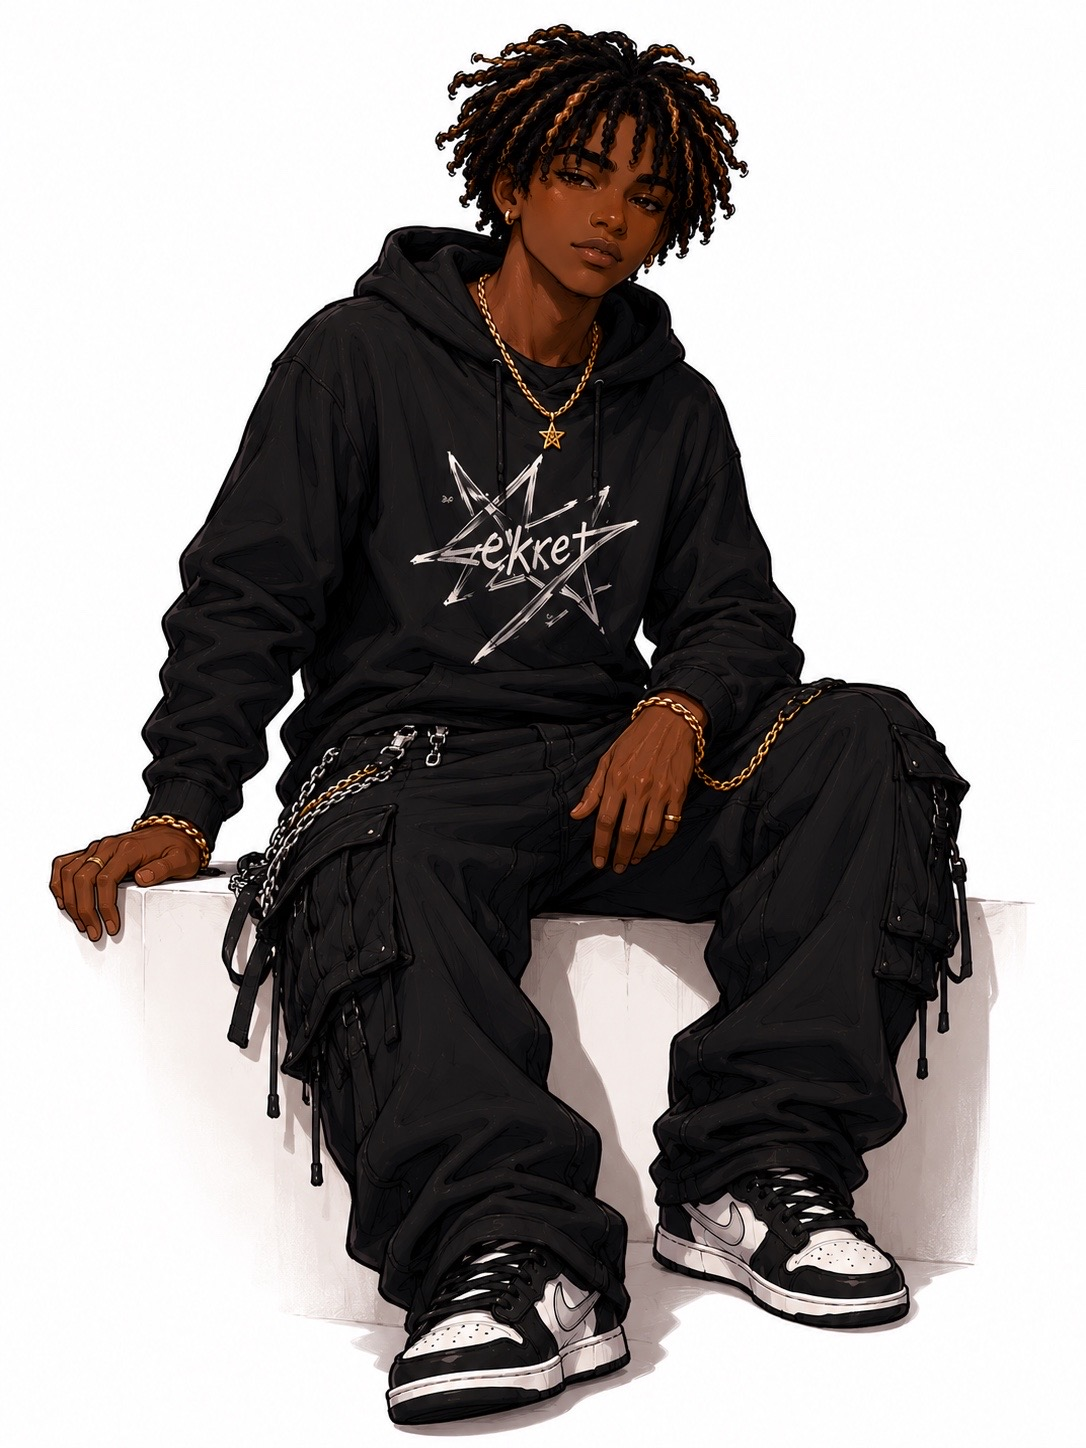
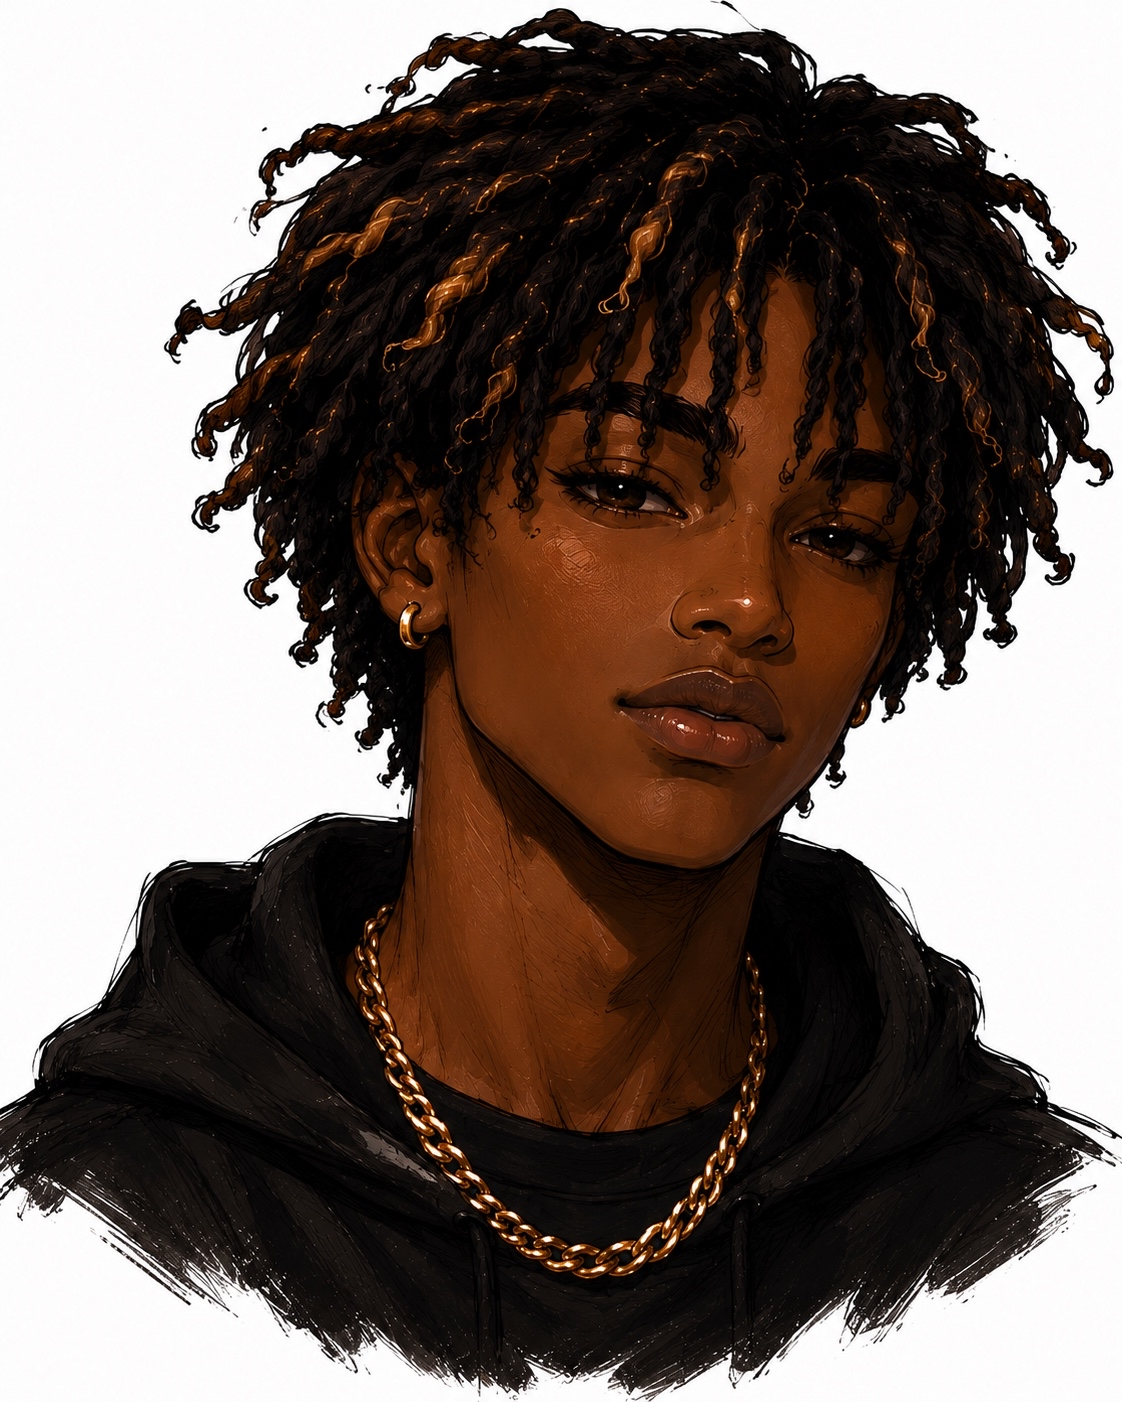
Upgrade character portraits and wire rylane-thinking real asset
- raylene-neutral.png: real neutral portrait (was 66KB placeholder)
- raylene-happy.png: higher-quality 3MB smiling portrait
- raylene-fullbody.png: real fullbody sitting pose (was 66KB placeholder)
- rylane-neutral.png: real neutral portrait (was same content as fullbody)
- rylane-thinking.png: real thinking pose (was 2-byte placeholder)
- rylane-window-day.png: new daytime window scene added
- constants/theme.ts: wire rylaneThinking to require() instead of alias
- docs/design-references/assets: 10 new reference/mockup files added

https://claude.ai/code/session_018s2cR19fMwVy4waWx1uBBY

diff --git a/constants/theme.ts b/constants/theme.ts
@@ -39,8 +39,8 @@ const rylaneWindow = require("../assets/images/rylane-window.png");
 const rylaneFullbody = require("../assets/images/rylane-fullbody.png");
 const rylaneNeutralV2 = require("../assets/images/rylane-neutral-v2.png");
 
-// ── Rylane (fallbacks; voice now has real assets) ─────────────────────────
-const rylaneThinking   = rylaneNeutral; // fallback → neutral
+// ── Rylane (thinking now has real asset; voice assets real) ──────────────
+const rylaneThinking   = require("../assets/images/rylane-thinking.png");
 const rylaneProfile    = rylaneFullbody; // fallback → fullbody portrait
 const rylaneVoiceDay   = require("../assets/images/rylane-voice-day.png");
 const rylaneVoiceNight = require("../assets/images/rylane-voice-night.png");
